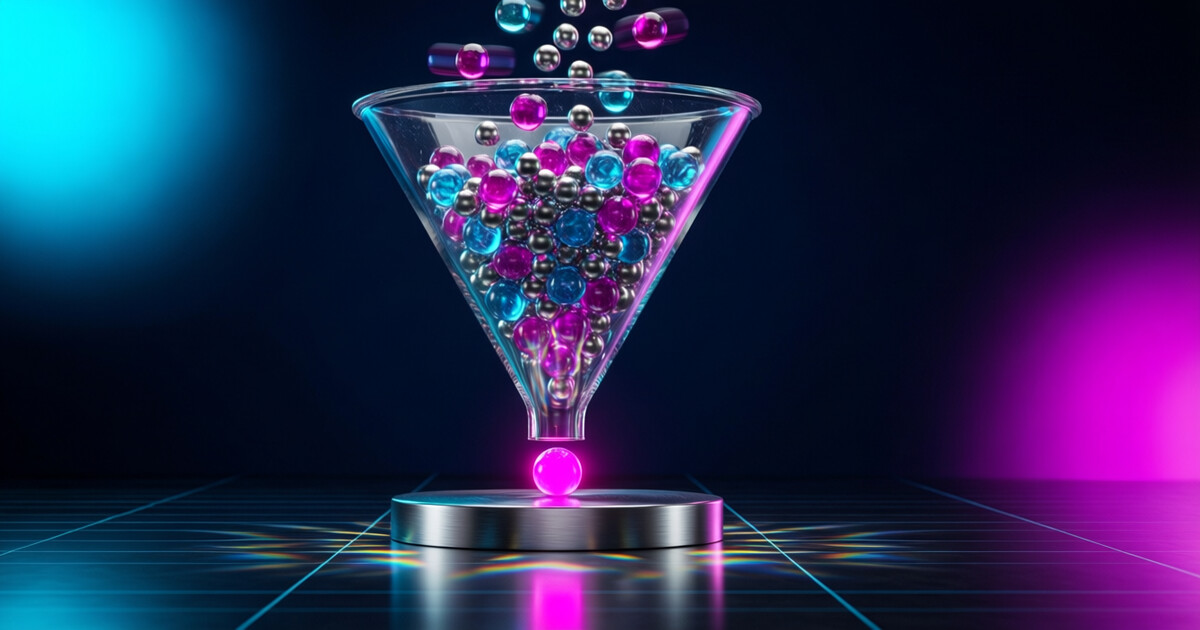
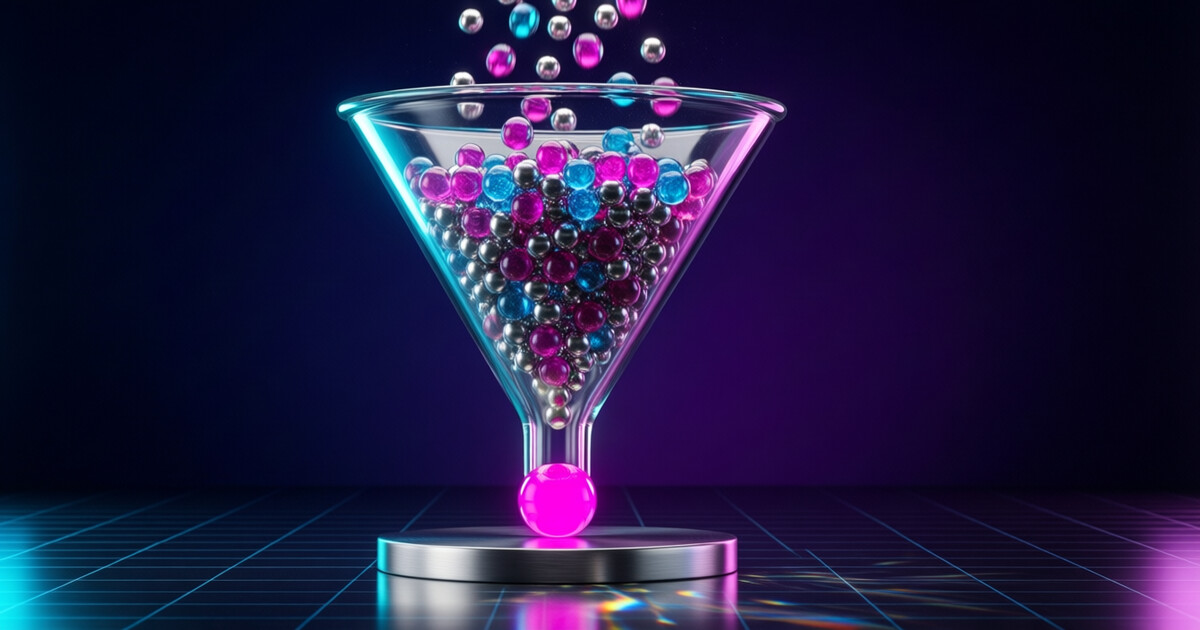
обложки статей: avtomatizatsiya-voronki-prodazh

diff --git a/journal/retrit-otel/index.html b/journal/retrit-otel/index.html
@@ -127,7 +127,7 @@ try{if(localStorage.getItem("tl-consent-v2")==="accepted"){window.tlLoadMetrika(
   <header class="hero">
     <div class="eyebrow">Осознанность и ретриты</div>
     <h1>Ретрит-отель: что это и как выбрать настоящий, а не обычный</h1>
-    <p class="lead">Ретрит-отель — что это? Это гостиница с ретритной программой: не просто отдых, а восстановление. Рассказываем, как отличить настоящую программу от обычного отеля с красивой вывеской и выбрать место под свой запрос.</p>
+    <p class="lead">Ретрит-отель — это гостиница с ретритной программой: не просто отдых, а восстановление. Рассказываю, как отличить настоящую программу от обычного отеля с красивой вывеской и выбрать место под свой запрос.</p>
     <div class="byline"><span class="author">Тимур Гуцев</span><time datetime="2026-08-20">2026-08-20</time></div>
   </header>
 
@@ -137,8 +137,8 @@ try{if(localStorage.getItem("tl-consent-v2")==="accepted"){window.tlLoadMetrika(
   </nav>
 
   <article>
-    <section id="s1" class="article"><h2>Ретрит-отель: что это и чем отличается от ретрит-центра</h2><p>Ретрит-отель — это гостиница с ретритной программой. Вы живёте в номере, как в обычном отеле, едите в ресторане, а практики встроены в день. Прежде чем искать конкретное место, честно ответьте себе: что для вас важнее — комфорт или глубина погружения. От этого зависит, куда ехать.</p><ul><li><strong>Ретрит-отель</strong> — делает акцент на комфорте и свободном времени: привычный сервис, практики как часть дня, а не заполненный до отказа график.</li><li><strong>Ретрит-центр</strong> — место, построенное специально под практику. Условия проще, зато расписание плотнее и отвлекающих факторов меньше.</li></ul><p>Отель подойдёт, если хочется мягкого входа: совместить отдых с практикой, побыть одному и не думать о готовке. Центр — если готовы жить по общему расписанию и полностью отключиться от быта. О том, что такое ретрит и как проходит день, мы рассказали в <a href="https://timlabs.online/journal/retrit/">статье про ретрит</a> — здесь говорим именно о гостиничном формате.</p></section>
-<section id="s2" class="article"><h2>Чек-лист: как отличить настоящий ретрит-отель от обычного</h2><p>Слово «ретрит» в названии ещё ничего не гарантирует. Часто это обычная гостиница, которая добавила в список услуг утреннюю йогу. Вот на что смотреть при выборе.</p><ul><li><strong>Программа, а не набор услуг.</strong> Настоящий ретрит — это выстроенный день: практики, отдых, тишина. Если на сайте только «спа и зал для йоги» — это отель, а не ретрит.</li><li><strong>Кто ведёт программу.</strong> Посмотрите, кто ведёт практики: имена, опыт, стиль. Хороший отель не прячет ведущих за красивыми фотографиями номеров.</li><li><strong>Тишина и телефоны.</strong> Один из смыслов ретрита — снизить шум. Уточните, есть ли часы без телефонов, тихие зоны, просят ли отключать звук в зале практик.</li><li><strong>Отзывы.</strong> Читайте не про завтрак и матрас, а про программу: как прошла практика, получилось ли замедлиться и отключиться от дел.</li></ul><p>Если хотя бы два пункта вызывают сомнения — перед вами хороший отель с оздоровительными опциями, а не ретрит. Это неплохо, просто отдых будет другим.</p></section>
+    <section id="s1" class="article"><h2>Ретрит-отель: что это и чем отличается от ретрит-центра</h2><p>Ретрит-отель — это гостиница с ретритной программой. Вы живёте в номере, как в обычном отеле, едите в ресторане, а практики встроены в день. Прежде чем искать конкретное место, честно ответьте себе: что для вас важнее — комфорт или глубина погружения. От этого зависит, куда ехать.</p><ul><li><strong>Ретрит-отель</strong> — делает акцент на комфорте и свободном времени: привычный сервис, практики как часть дня, а не заполненный до отказа график.</li><li><strong>Ретрит-центр</strong> — место, построенное специально под практику. Условия проще, зато расписание плотнее и отвлекающих факторов меньше.</li></ul><p>Отель подойдёт, если хочется мягкого входа: совместить отдых с практикой, побыть одному и не думать о готовке. Центр — если готовы жить по общему расписанию и полностью отключиться от быта. О том, что такое ретрит и как проходит день, я рассказал в <a href="https://timlabs.online/journal/retrit/">статье про ретрит</a> — здесь говорим именно о гостиничном формате.</p></section>
+<section id="s2" class="article"><h2>Чек-лист: как отличить настоящий ретрит-отель от обычного</h2><p>Слово «ретрит» в названии ещё ничего не гарантирует. Часто это обычная гостиница, которая добавила в список услуг утреннюю йогу. Вот на что я смотрю при выборе.</p><ul><li><strong>Программа, а не набор услуг.</strong> Настоящий ретрит — это выстроенный день: практики, отдых, тишина. Если на сайте только «спа и зал для йоги» — это отель, а не ретрит.</li><li><strong>Кто ведёт программу.</strong> Посмотрите, кто ведёт практики: имена, опыт, стиль. Хороший отель не прячет ведущих за красивыми фотографиями номеров.</li><li><strong>Тишина и телефоны.</strong> Один из смыслов ретрита — снизить шум. Уточните, есть ли часы без телефонов, тихие зоны, просят ли отключать звук в зале практик.</li><li><strong>Отзывы.</strong> Читайте не про завтрак и матрас, а про программу: как прошла практика, получилось ли замедлиться и отключиться от дел.</li></ul><p>Если хотя бы два пункта вызывают сомнения — перед вами хороший отель с оздоровительными опциями, а не ретрит. Это неплохо, просто отдых будет другим.</p></section>
 <section id="s3" class="article"><h2>На что смотреть в программе, чтобы отдых реально восстановил</h2><p>Даже в честном ретрит-отеле программа может оказаться перегруженной или, наоборот, слишком пустой. Вот признаки сбалансированной программы.</p><ul><li><strong>Баланс практики и отдыха.</strong> Плотное расписание с утра до ночи — не признак качества. Телу и голове нужно время, чтобы переварить опыт. Хорошая программа чередует активность и паузы.</li><li><strong>Время без телефонов.</strong> Без паузы от новостей и уведомлений эффект будет слабым. Смотрите, встроены ли в день «цифровые паузы».</li><li><strong>Возможность побыть одному.</strong> Ретрит — не только общие практики. Важно иметь место и время для тишины, когда хочется уйти от группы.</li><li><strong>Без обещаний чудес.</strong> Если программа обещает «перезагрузку за выходные» и гарантирует результат — это повод насторожиться. Честный ретрит помогает замедлиться, но ничего не гарантирует.</li></ul><blockquote>Хороший ретрит-отель создаёт условия, в которых вы сами возвращаете себе ясность, а не делает это за вас.</blockquote></section>
 <section id="s4" class="article"><h2>Из чего складывается цена ретрит-отеля и на чём не экономить</h2><p>Цена ретрита в отеле складывается из количества дней, уровня гостиницы, питания, программы и сезона. Точную цифру назовёт только сам отель — усреднённые прайсы из интернета стоит воспринимать с осторожностью.</p><ul><li><strong>Проживание и питание.</strong> Самая понятная часть: номер, еда, уровень обслуживания.</li><li><strong>Программа и ведущие.</strong> Опытный ведущий — это время, подготовка и внимание к каждому участнику. Именно от этой части чаще всего зависит, сработает ли ретрит.</li><li><strong>Число участников.</strong> Небольшие группы обычно стоят дороже, но и внимания каждому больше.</li></ul><p>Сэкономить можно на номере попроще, поездке в несезон и короткой программе выходного дня для пробы. Не стоит экономить на программе и людях, которые её ведут, — иначе вы заплатите за обычный отпуск, а не за ретрит.</p></section>
   </article>
